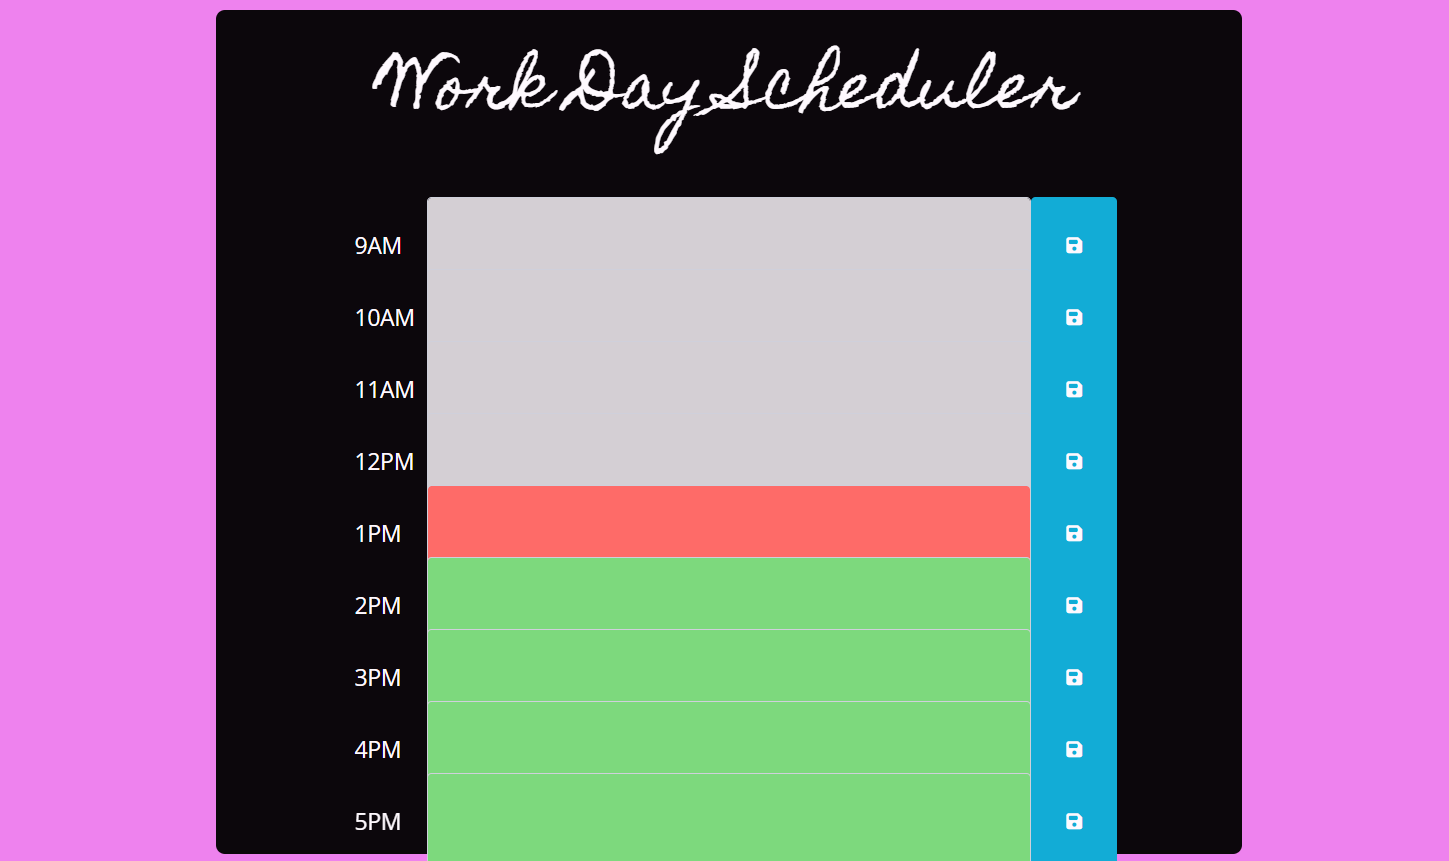
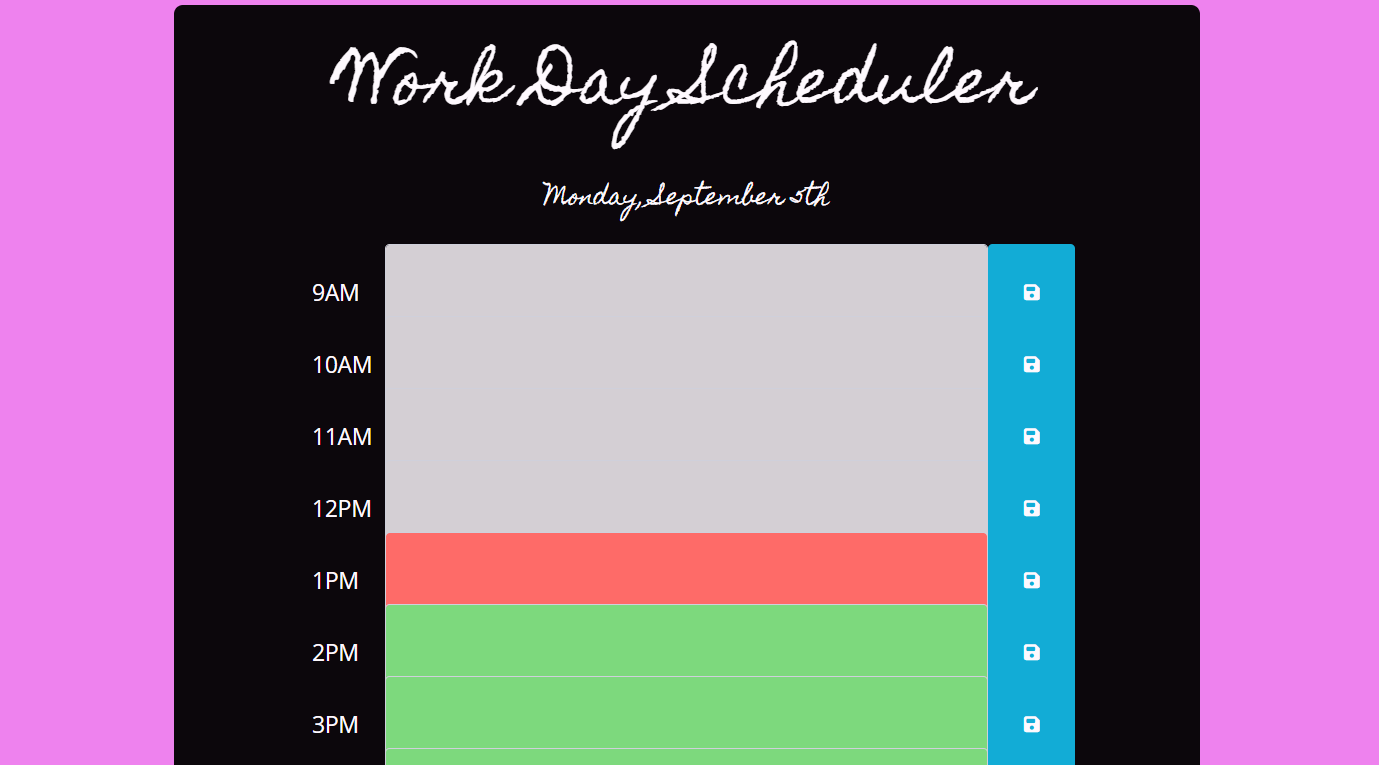
Added new screenshot

Changed region(s): [[0.1247, 0.0, 0.8731, 1.0]]

diff --git a/assets/js/script.js b/assets/js/script.js
@@ -1,7 +1,7 @@
 var displayTime = document.querySelector("#currentDay");
 var currentTime = moment();
 
-displayTime.textConent = currentTime.format("dddd, MMMM Do");
+displayTime.textContent = currentTime.format("dddd, MMMM Do")
 
 $(".saveBtn").on("click", function() {
     var value = $(this).siblings(".description").val();

diff --git a/index.html b/index.html
@@ -16,6 +16,7 @@
       rel="stylesheet"
       href="https://fonts.googleapis.com/css?family=Open+Sans&display=swap"
     />
+    <link rel="stylesheet" href="path/to/font-awesome/css/font-awesome.min.css">
     <link rel="stylesheet" href="./assets/css/style.css" />
     <title>Work Day Scheduler</title>
   </head>
